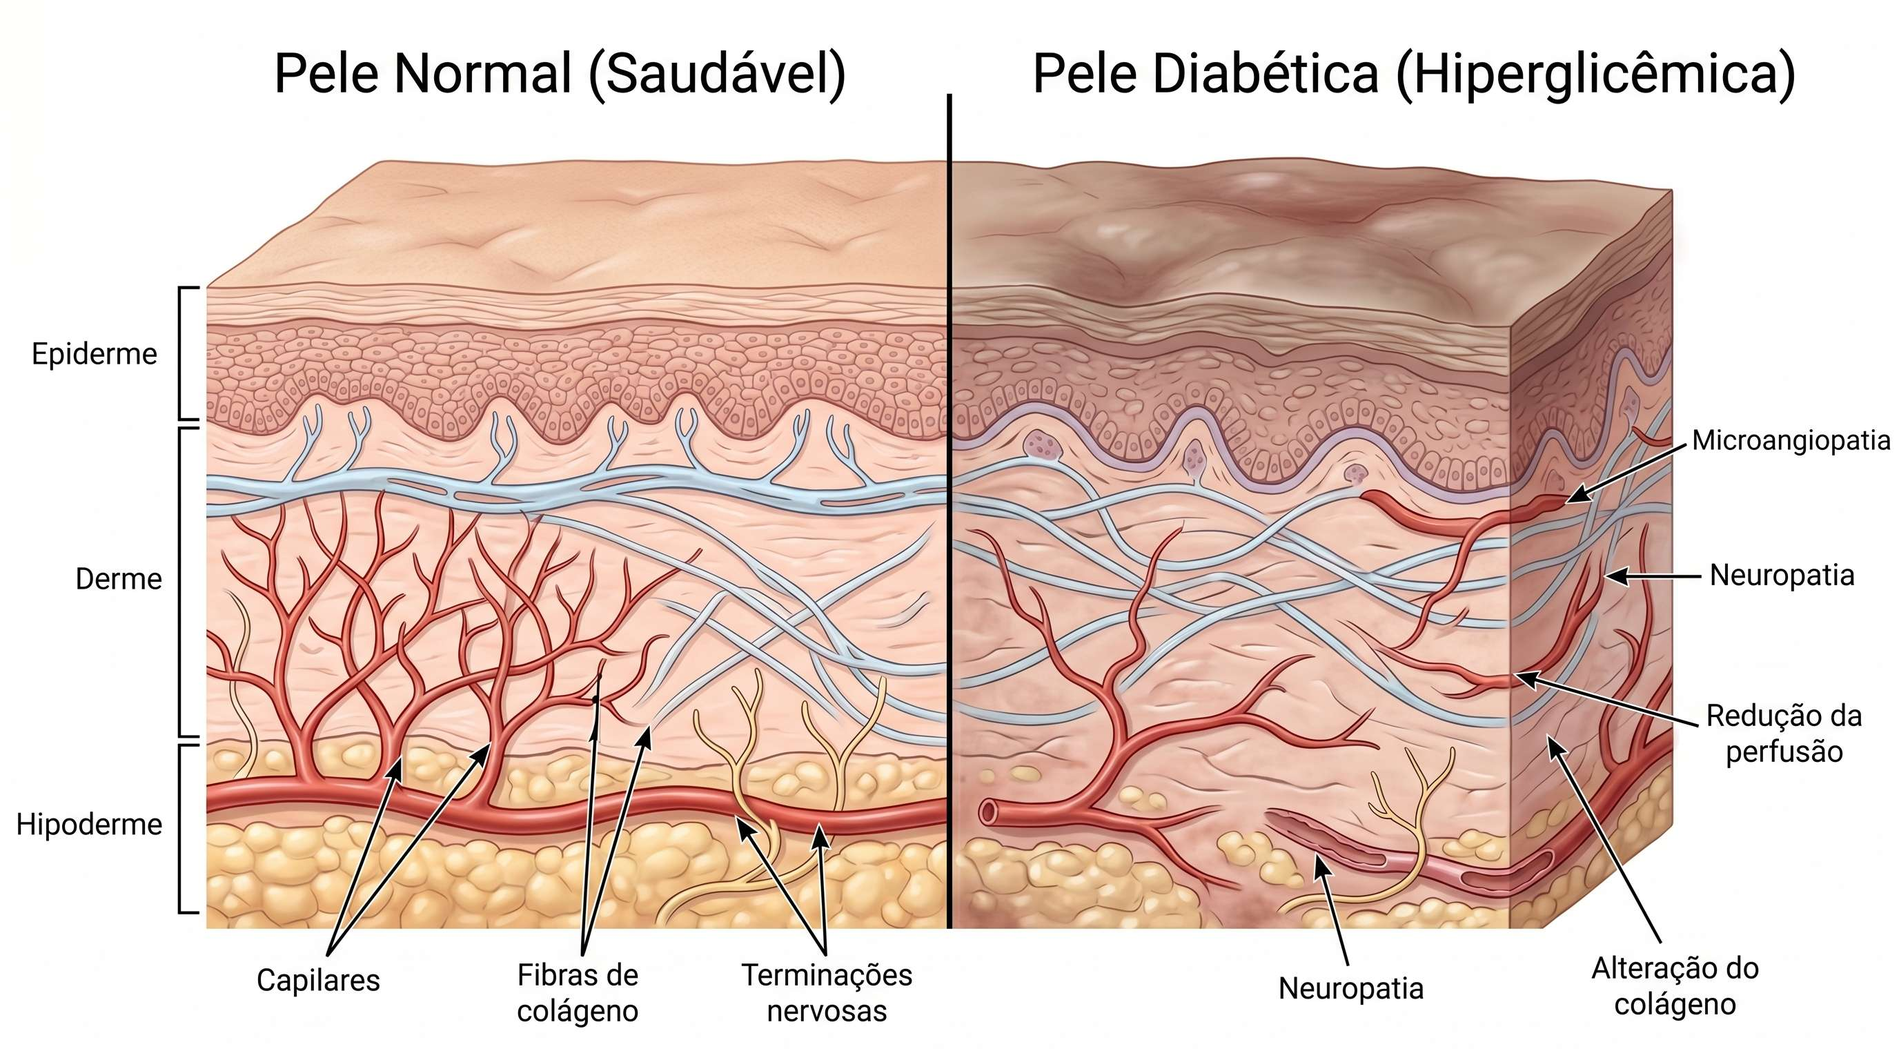
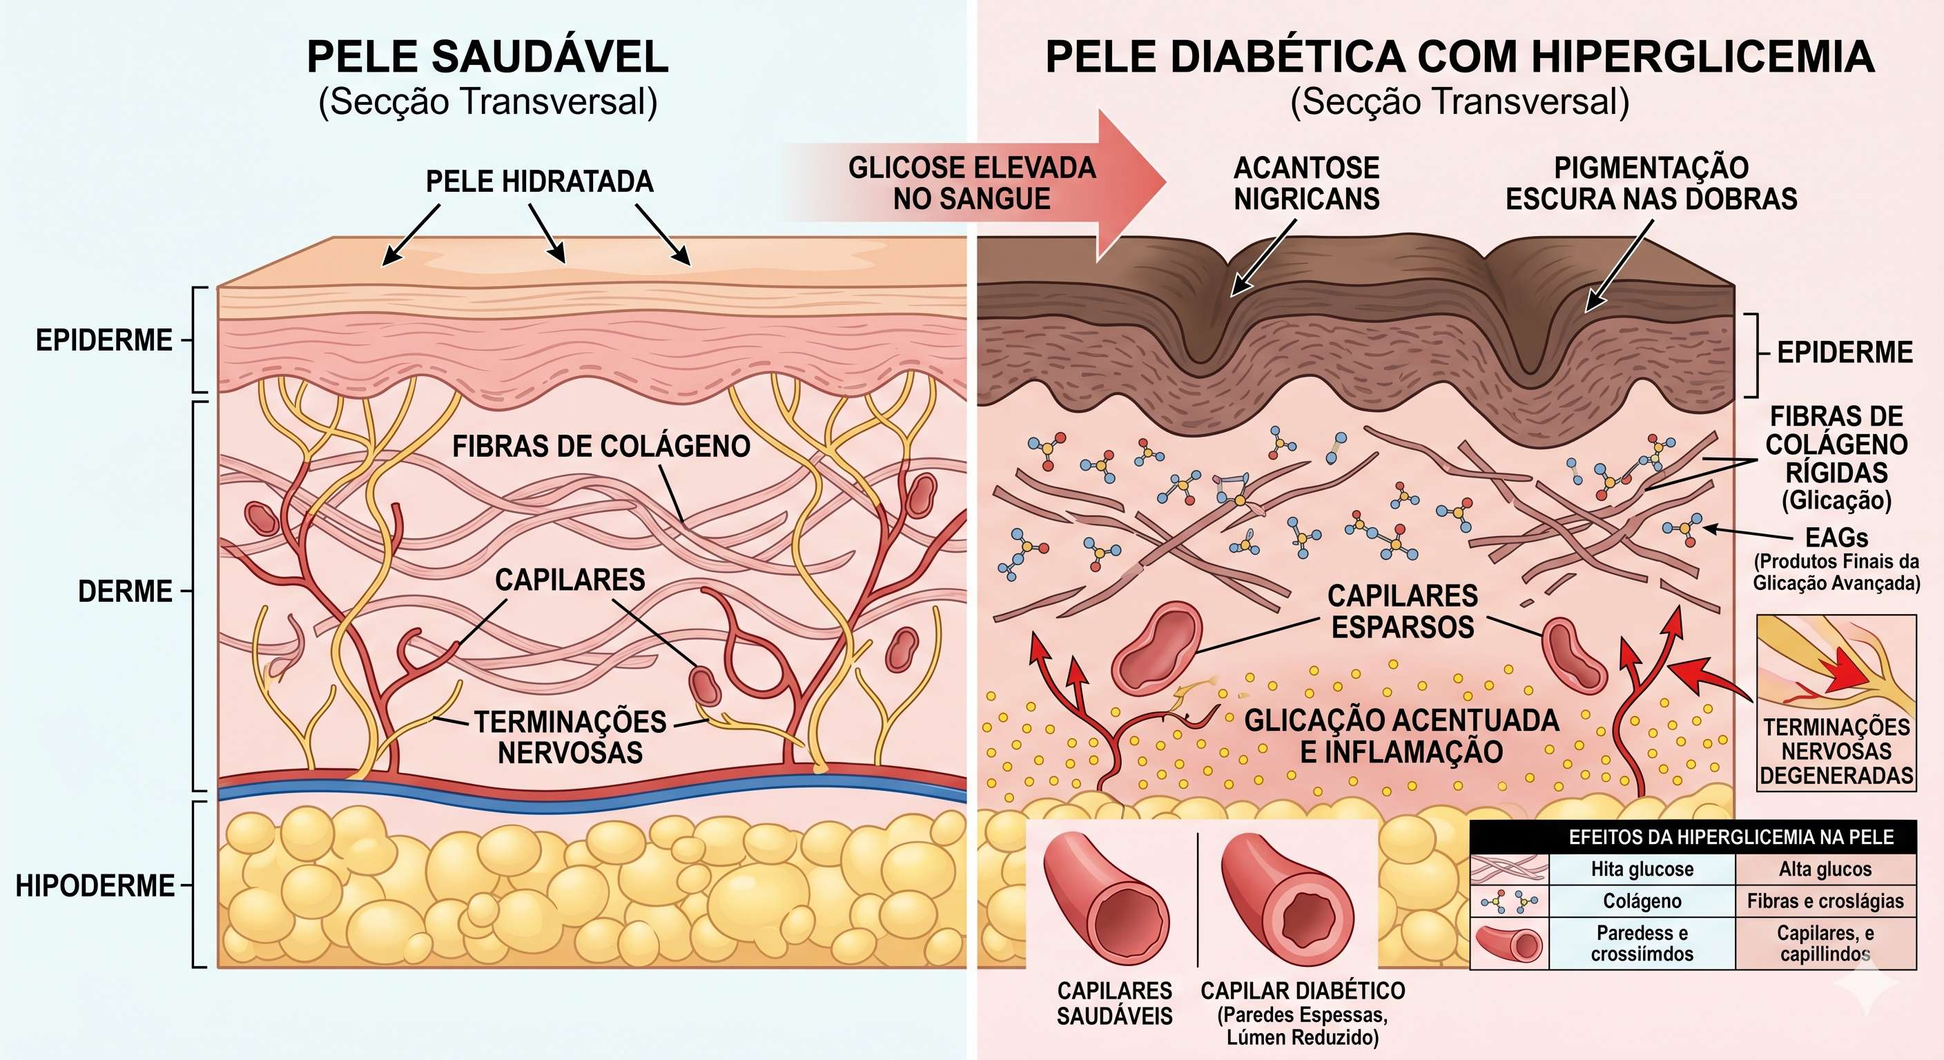
Add files via upload

diff --git a/html/info/varios/acucaraferida.html b/html/info/varios/acucaraferida.html
@@ -457,6 +457,16 @@
     .content p { margin-bottom: 13px; }
     .content p:last-child { margin-bottom: 0; }
 
+    /* ── INLINE CITATIONS ── */
+    sup {
+      font-size: 0.68rem;
+      font-weight: 700;
+      color: var(--rose);
+      letter-spacing: 0.01em;
+      vertical-align: super;
+      line-height: 0;
+    }
+
     @media (max-width: 600px) {
       .hero { padding: 40px 20px 36px; }
       .hero-stats { flex-direction: column; border-radius: 12px; }
@@ -486,10 +496,10 @@
   <h1>Do Açúcar à <span>Ferida Crônica</span><br>Como a Hiperglicemia Destrói o Processo de Cura</h1>
   <p class="hero-sub">Um percurso passo a passo pelos mecanismos moleculares e celulares que transformam o excesso de glicose em uma ferida que se recusa a fechar</p>
   <div class="hero-stats">
-    <div class="hero-stat"><strong>537M</strong><span>pessoas com DM no mundo</span></div>
-    <div class="hero-stat"><strong>~25%</strong><span>dos diabéticos terão ferida crônica</span></div>
-    <div class="hero-stat"><strong>19–34%</strong><span>risco de úlcera diabética na vida</span></div>
-    <div class="hero-stat"><strong>65%</strong><span>recorrência em 5 anos</span></div>
+    <div class="hero-stat"><strong>537M</strong><span>pessoas com DM no mundo <sup>[7,1]</sup></span></div>
+    <div class="hero-stat"><strong>~25%</strong><span>dos diabéticos terão ferida crônica <sup>[1]</sup></span></div>
+    <div class="hero-stat"><strong>19–34%</strong><span>risco de úlcera diabética na vida <sup>[10]</sup></span></div>
+    <div class="hero-stat"><strong>65%</strong><span>recorrência em 5 anos <sup>[1]</sup></span></div>
   </div>
 </div>
 
@@ -515,21 +525,38 @@
         <p class="fallback-path">img/pele-normal-vs-diabetica.jpg</p>
         <p class="fallback-hint">Comparação histológica: pele saudável vs. pele hiperglicêmica (vasos, espessura de camadas, nervos)</p>
       </div>
-      <figcaption>Figura 1 — Comparativo histológico: pele saudável (esq.) vs. pele hiperglicêmica (dir.). Note a rarefação vascular e o espessamento da membrana basal.</figcaption>
+      <figcaption>
+        Figura 1 — <strong>Esquerda:</strong> pele de uma pessoa saudável — epiderme íntegra, vasos abundantes, nervos ativos e colágeno organizado.
+        <strong>Direita:</strong> pele de uma pessoa com diabetes e descontrole glicêmico — membrana basal espessada, capilares rarefatos, fibras de colágeno rígidas por AGEs e nervos degenerados. <sup>[1,5,6]</sup>
+      </figcaption>
     </figure>
     <div>
       <div class="callout amber">
         <span class="callout-icon">⚠</span>
         <div>
-          <h4>Pele diabética: uma bomba-relógio</h4>
+          <h4>Pele diabética: uma bomba-relógio <sup>[1,5]</sup></h4>
           <p>A hiperglicemia reduz a hidratação cutânea, compromete a barreira epidérmica e eleva a colonização por patógenos — tudo <em>antes</em> de qualquer ferida existir. Essa "pré-fragilização" é o ponto de partida do pé diabético.</p>
+        </div>
+      </div>
+      <div class="callout purple">
+        <span class="callout-icon">🌑</span>
+        <div>
+          <h4>Por que a pele pode aparecer mais escura?</h4>
+          <p>A hiperpigmentação que se vê em algumas regiões da pele diabética — especialmente dobras e tornozelos — pode resultar de acantose nigricans (associada à resistência à insulina), depósito de hemossiderina por micro-hemorragias ou alterações na melanogênese induzidas pelos AGEs. <strong>Importante:</strong> nem sempre acontece — sua ausência não indica pele saudável nem descarta risco de ferida. <sup>[5]</sup></p>
+        </div>
+      </div>
+      <div class="callout red">
+        <span class="callout-icon">🔇</span>
+        <div>
+          <h4>A perda de sensibilidade protetora: o risco invisível <sup>[1,7,10]</sup></h4>
+          <p>A neuropatia periférica elimina a capacidade de sentir pressão, atrito e temperatura. Isso significa que um calçado apertado, uma pedra na meia ou uma costura mal posicionada podem provocar lesões progressivas <strong>sem que a pessoa perceba</strong>. Quando a ferida é notada, ela já evoluiu por dias ou semanas — muitas vezes já infectada.</p>
         </div>
       </div>
       <div class="callout blue">
         <span class="callout-icon">🎓</span>
         <div>
           <h4>Para engenharia, enfermagem e medicina</h4>
-          <p>A cicatrização é um problema de <strong>biomecânica</strong> (resistência do colágeno), <strong>bioquímica</strong> (sinalização celular), <strong>vascular</strong> (perfusão de O₂) e <strong>neurológico</strong> (detecção de lesão). A diabetes ataca todos ao mesmo tempo.</p>
+          <p>A cicatrização é um problema de <strong>biomecânica</strong> (resistência do colágeno), <strong>bioquímica</strong> (sinalização celular), <strong>vascular</strong> (perfusão de O₂) e <strong>neurológico</strong> (detecção de lesão). A diabetes ataca todos ao mesmo tempo. <sup>[3,4]</sup></p>
         </div>
       </div>
     </div>
@@ -551,8 +578,8 @@
         <div class="tl-time">Cena 1 · Nível molecular — Semanas a meses</div>
         <h3>O açúcar se liga às proteínas: formação dos AGEs</h3>
         <div class="content">
-          <p>Quando a concentração de glicose se mantém cronicamente elevada, moléculas de açúcar iniciam uma reação não-enzimática com os grupos amino livres de proteínas — a <strong>glicação</strong>. O processo começa com a formação instável de uma <em>base de Schiff</em>, que se estabiliza como produto de Amadori. Ao longo de semanas a anos, essa cadeia origina os <strong>Produtos Finais da Glicação Avançada (AGEs)</strong>.</p>
-          <p>Os AGEs acumulam-se especialmente no colágeno — proteína de meia-vida longa (10–15 anos na pele) — formando <em>crosslinks</em> anormais entre as fibras. O resultado é um colágeno rígido, frágil, resistente à remodelação enzimática e com sítios de ligação para integrinas e proteoglicanos bloqueados.</p>
+          <p>Quando a concentração de glicose se mantém cronicamente elevada, moléculas de açúcar iniciam uma reação não-enzimática com os grupos amino livres de proteínas — a <strong>glicação</strong>. O processo começa com a formação instável de uma <em>base de Schiff</em>, que se estabiliza como produto de Amadori. Ao longo de semanas a anos, essa cadeia origina os <strong>Produtos Finais da Glicação Avançada (AGEs)</strong>. <sup>[5,6]</sup></p>
+          <p>Os AGEs acumulam-se especialmente no colágeno — proteína de meia-vida longa (10–15 anos na pele) — formando <em>crosslinks</em> anormais entre as fibras. O resultado é um colágeno rígido, frágil, resistente à remodelação enzimática e com sítios de ligação para integrinas e proteoglicanos bloqueados. <sup>[6]</sup></p>
         </div>
         <div class="callout orange" style="margin-top:16px;">
           <span class="callout-icon">🔬</span>
@@ -571,7 +598,7 @@
         <div class="tl-time">Cena 2 · Nível vascular — Meses a anos</div>
         <h3>Microangiopatia: os vasos perdem a função</h3>
         <div class="content">
-          <p>A hiperglicemia ativa a via do poliol (que consome NADPH e gera sorbitol) e a via da hexosamina — ambas levando ao acúmulo de espécies reativas de oxigênio (EROs/ROS) e à disfunção endotelial.</p>
+          <p>A hiperglicemia ativa a via do poliol (que consome NADPH e gera sorbitol) e a via da hexosamina — ambas levando ao acúmulo de espécies reativas de oxigênio (EROs/ROS) e à disfunção endotelial. <sup>[1,3,4]</sup></p>
         </div>
         <div class="cards-grid" style="margin-top:14px;">
           <div class="card">
@@ -607,13 +634,13 @@
         <div class="tl-time">Cena 3 · Nível neurológico — Anos</div>
         <h3>Neuropatia periférica: o alarme é silenciado</h3>
         <div class="content">
-          <p>Os nervos periféricos são especialmente vulneráveis à hiperglicemia. A neuropatia diabética resulta em:</p>
+          <p>Os nervos periféricos são especialmente vulneráveis à hiperglicemia. A neuropatia diabética resulta em: <sup>[1,7]</sup></p>
           <ul style="margin: 12px 0 12px 20px; color: var(--mid); font-size: 0.94rem; line-height: 2.1;">
-            <li><strong>Perda da sensibilidade protetora:</strong> o paciente não sente pressão, calor, dor ou objetos penetrantes no pé</li>
-            <li><strong>Disfunção autonômica:</strong> redução da sudorese → pele seca e com fissuras → porta de entrada para bactérias</li>
-            <li><strong>Atrofia muscular intrínseca:</strong> deformidades podais (dedos em garra, proeminências ósseas) → pontos de pressão anormal</li>
+            <li><strong>Perda da sensibilidade protetora:</strong> o paciente não sente pressão, calor, dor ou objetos penetrantes no pé — incluindo calçados inadequados que causam lesão por atrito dia após dia <sup>[10]</sup></li>
+            <li><strong>Disfunção autonômica:</strong> redução da sudorese → pele seca e com fissuras → porta de entrada para bactérias <sup>[1]</sup></li>
+            <li><strong>Atrofia muscular intrínseca:</strong> deformidades podais (dedos em garra, proeminências ósseas) → pontos de pressão anormal <sup>[7,10]</sup></li>
           </ul>
-          <p>A combinação é brutal: o paciente não percebe que tem uma lesão em formação, e quando percebe, ela já se tornou crônica.</p>
+          <p>A combinação é brutal: o paciente não percebe que tem uma lesão em formação, e quando percebe, ela já se tornou crônica. <sup>[1,10]</sup></p>
         </div>
       </div>
     </div>
@@ -625,8 +652,8 @@
         <div class="tl-time">Cena 4 · Inflamação disfuncional — Fase aguda comprometida</div>
         <h3>A resposta inflamatória trava no modo "crônico"</h3>
         <div class="content">
-          <p>Em uma ferida normal, a fase inflamatória dura 3–5 dias: neutrófilos chegam, fagocitam debris e bactérias, sinalizam para macrófagos que, em seguida, polarizam de M1 (pró-inflamatório) para M2 (reparador). Em pacientes diabéticos, esse <em>switch</em> <strong>não acontece</strong>.</p>
-          <p>A hiperglicemia eleva a ativação do fator NF-κB, perpetuando a liberação de IL-6, IL-1β e TNF-α pelos macrófagos M1. Os macrófagos M2 — responsáveis por liberar VEGF e TGF-β — permanecem sub-representados. A ferida fica presa em inflamação sem progressão.</p>
+          <p>Em uma ferida normal, a fase inflamatória dura 3–5 dias: neutrófilos chegam, fagocitam debris e bactérias, sinalizam para macrófagos que, em seguida, polarizam de M1 (pró-inflamatório) para M2 (reparador). Em pacientes diabéticos, esse <em>switch</em> <strong>não acontece</strong>. <sup>[8]</sup></p>
+          <p>A hiperglicemia eleva a ativação do fator NF-κB, perpetuando a liberação de IL-6, IL-1β e TNF-α pelos macrófagos M1. Os macrófagos M2 — responsáveis por liberar VEGF e TGF-β — permanecem sub-representados. A ferida fica presa em inflamação sem progressão. <sup>[8,3]</sup></p>
         </div>
         <figure>
           <img src="img/macrofagos-m1-m2-diabetes.png"
@@ -642,7 +669,7 @@
         <div class="callout purple">
           <span class="callout-icon">🔁</span>
           <div>
-            <h4>NETose: um agravante pouco conhecido</h4>
+            <h4>NETose: um agravante pouco conhecido <sup>[9]</sup></h4>
             <p>Neutrófilos diabéticos liberam NETs (Neutrophil Extracellular Traps) em excesso — estruturas de DNA e proteínas que formam barreira física na ferida, bloqueando a migração celular e amplificando o dano ao tecido adjacente.</p>
           </div>
         </div>
@@ -716,8 +743,8 @@
         <div class="tl-time">Cena 6 · Infecção e biofilme — Semanas a meses</div>
         <h3>Bactérias colonizam o tecido: formação de biofilme</h3>
         <div class="content">
-          <p>A tríade — barreira cutânea comprometida + imunidade celular reduzida + ambiente rico em glicose — cria um habitat ideal para patógenos. Em feridas diabéticas, <em>Staphylococcus aureus</em>, <em>Pseudomonas aeruginosa</em> e bactérias anaeróbias formam <strong>biofilmes</strong> — comunidades microbianas revestidas por matriz de polissacarídeos que as torna até 1.000× mais resistentes a antibióticos e à fagocitose.</p>
-          <p>O biofilme perpetua a resposta inflamatória crônica e inibe diretamente a proliferação de fibroblastos e a síntese de colágeno — fechando o círculo vicioso da ferida que não cicatriza.</p>
+          <p>A tríade — barreira cutânea comprometida + imunidade celular reduzida + ambiente rico em glicose — cria um habitat ideal para patógenos. Em feridas diabéticas, <em>Staphylococcus aureus</em>, <em>Pseudomonas aeruginosa</em> e bactérias anaeróbias formam <strong>biofilmes</strong> — comunidades microbianas revestidas por matriz de polissacarídeos que as torna até 1.000× mais resistentes a antibióticos e à fagocitose. <sup>[1,8]</sup></p>
+          <p>O biofilme perpetua a resposta inflamatória crônica e inibe diretamente a proliferação de fibroblastos e a síntese de colágeno — fechando o círculo vicioso da ferida que não cicatriza. <sup>[1,3]</sup></p>
         </div>
         <div class="callout teal">
           <span class="callout-icon">🧫</span>
@@ -753,14 +780,14 @@
           <div class="callout red">
             <span class="callout-icon">🔴</span>
             <div>
-              <h4>Sequência fatal sem intervenção</h4>
+              <h4>Sequência fatal sem intervenção <sup>[1,10]</sup></h4>
               <p>Lesão → infecção → biofilme → inflamação crônica → tecido necrótico → osteomielite → amputação. Cada etapa demora semanas; o tratamento precoce pode interromper a cascata.</p>
             </div>
           </div>
           <div class="callout orange">
             <span class="callout-icon">📊</span>
             <div>
-              <h4>Dimensão da crise</h4>
+              <h4>Dimensão da crise <sup>[1]</sup></h4>
               <p>A cada 30 segundos, uma amputação de membro inferior é realizada por diabetes no mundo. O custo global de tratamento de úlceras diabéticas deve superar US$ 11 bilhões até 2027.</p>
             </div>
           </div>
@@ -814,6 +841,72 @@
     </div>
   </div>
 
+  <!-- SEÇÃO CALÇADOS -->
+  <div class="section-header">
+    <div class="eyebrow">Prevenção · Um detalhe que define tudo</div>
+    <h2>Calçados adequados e <span>inadequados para o pé diabético</span></h2>
+  </div>
+
+  <div class="content">
+    <p>Como a neuropatia elimina o sinal de dor, o calçado deixa de ser uma questão de conforto e passa a ser uma questão de <strong>sobrevivência tecidual</strong>. Estudos mostram que pressão repetida em pontos de proeminência óssea é a principal causa mecânica de úlceras plantares no pé diabético <sup>[10]</sup>. A escolha correta do calçado é, portanto, uma intervenção terapêutica — não um acessório.</p>
+  </div>
+
+  <div class="two-col" style="margin-top: 24px;">
+    <figure>
+      <img src="img/calcados-inadequados-pe-diabetico.jpg"
+           alt="Exemplos de calçados inadequados para pessoas com diabetes: bico fino, salto alto, sandálias abertas, calçados apertados"
+           onerror="this.classList.add('img-error'); this.nextElementSibling.classList.add('visible')">
+      <div class="img-fallback">
+        <span class="fallback-icon">🖼</span>
+        <p class="fallback-path">img/calcados-inadequados-pe-diabetico.jpg</p>
+        <p class="fallback-hint">Montagem com 4 tipos de calçados inadequados: salto alto, bico fino, chinelo aberto, sapato apertado — com setas indicando os pontos de pressão problemáticos no pé</p>
+      </div>
+      <figcaption>Figura 5 — Calçados <strong>inadequados</strong>: bico fino concentra pressão nos dedos; salto alto desloca o peso para o antepé; chinelos e sandálias expostos aumentam risco de trauma; calçados apertados geram atrito contínuo — tudo isso sem que a pessoa diabética sinta. <sup>[10]</sup></figcaption>
+    </figure>
+    <figure>
+      <img src="img/calcados-adequados-pe-diabetico.jpg"
+           alt="Exemplos de calçados adequados para pessoas com diabetes: tênis ortopédico, solado antiderrapante, bico arredondado e largo, palmilha macia"
+           onerror="this.classList.add('img-error'); this.nextElementSibling.classList.add('visible')">
+      <div class="img-fallback">
+        <span class="fallback-icon">🖼</span>
+        <p class="fallback-path">img/calcados-adequados-pe-diabetico.jpg</p>
+        <p class="fallback-hint">Montagem com 2–3 tipos de calçados adequados: tênis de bico largo, calçado terapêutico fechado, sapato de couro macio com solado firme — com indicações dos recursos protetores</p>
+      </div>
+      <figcaption>Figura 6 — Calçados <strong>adequados</strong>: bico largo e arredondado, sem costuras internas agressivas, solado rígido que distribui pressão, profundidade suficiente para palmilha ortopédica, fechamento ajustável. O calçado terapêutico para diabéticos reduz em até 50% o risco de ulceração plantar. <sup>[10]</sup></figcaption>
+    </figure>
+  </div>
+
+  <div class="cards-grid" style="margin-top: 4px;">
+    <div class="card" style="border-top: 3px solid var(--rose);">
+      <div class="card-icon">🚫</div>
+      <h4 style="color:#7A1F1A;">Evitar sempre</h4>
+      <p>Salto alto, bico fino ou pontiagudo, chinelos abertos, calçados muito apertados ou muito largos, materiais sintéticos sem respiração, costuras internas salientes.</p>
+    </div>
+    <div class="card" style="border-top: 3px solid var(--green);">
+      <div class="card-icon">✅</div>
+      <h4 style="color:#104828;">Preferir sempre</h4>
+      <p>Tênis ou sapato fechado de couro macio, bico largo, solado firme e antiderrapante, palmilha ortopédica removível, sem costuras internas, comprido 1 cm além do dedo mais longo.</p>
+    </div>
+    <div class="card" style="border-top: 3px solid var(--amber);">
+      <div class="card-icon">👁</div>
+      <h4 style="color:#7C3D0A;">Inspecionar diariamente</h4>
+      <p>Por dentro do calçado antes de calçar (pedras, objetos, dobras). Inspecionar o próprio pé com espelho se necessário. Nunca andar descalço, mesmo dentro de casa. <sup>[10]</sup></p>
+    </div>
+    <div class="card" style="border-top: 3px solid var(--purple);">
+      <div class="card-icon">⏱</div>
+      <h4 style="color:#4A1B8A;">Adaptação gradual</h4>
+      <p>Calçados novos devem ser usados por períodos curtos inicialmente (1–2h), aumentando progressivamente. Verificar marcas de pressão na pele logo após retirar. <sup>[10]</sup></p>
+    </div>
+  </div>
+
+  <div class="callout orange" style="margin-top: 8px;">
+    <span class="callout-icon">💡</span>
+    <div>
+      <h4>Por que isso é tão crítico na diabetes? <sup>[1,7,10]</sup></h4>
+      <p>Em pessoas sem neuropatia, um calçado ruim dói — e é trocado. Em pessoas com perda de sensibilidade protetora, o mesmo calçado cria lesão por pressão repetida durante horas, dia após dia, <strong>completamente imperceptível</strong>. Quando a ferida é encontrada, frequentemente já existe infecção instalada. Orientar sobre calçados é, portanto, uma competência clínica essencial para enfermagem, medicina e equipes de reabilitação.</p>
+    </div>
+  </div>
+
   <!-- IMPLICAÇÕES CLÍNICAS -->
   <div class="section-header">
     <div class="eyebrow">Implicações clínicas · Para a prática</div>
@@ -836,21 +929,21 @@
     <div class="callout green">
       <span class="callout-icon">✅</span>
       <div>
-        <h4>Controle glicêmico é fundamento</h4>
+        <h4>Controle glicêmico é fundamento <sup>[3,4,8]</sup></h4>
         <p>Reduzir a glicemia reduz a formação de AGEs, diminui a disfunção endotelial e restaura parcialmente a polarização macrofágica. Não existe tratamento de ferida eficaz sem controle metabólico associado.</p>
       </div>
     </div>
     <div class="callout teal">
       <span class="callout-icon">🩹</span>
       <div>
-        <h4>Desbridamento e controle de biofilme</h4>
+        <h4>Desbridamento e controle de biofilme <sup>[1,8]</sup></h4>
         <p>Remover tecido necrótico e biofilme é obrigatório: sem isso, a inflamação crônica persiste e qualquer curativo perde o efeito. O desbridamento transforma a ferida crônica em aguda — reiniciando a cascata normal.</p>
       </div>
     </div>
     <div class="callout blue">
       <span class="callout-icon">🔬</span>
       <div>
-        <h4>Perspectivas terapêuticas emergentes</h4>
+        <h4>Perspectivas terapêuticas emergentes <sup>[4,8]</sup></h4>
         <p>Inibidores de DPP-4, metformina tópica, hidrogéis com GLP-1, terapia por pressão negativa (NPWT) e substitutos de pele bioengenheirados atacam diferentes nós da cascata, com resultados promissores em estudos pré-clínicos e clínicos.</p>
       </div>
     </div>
